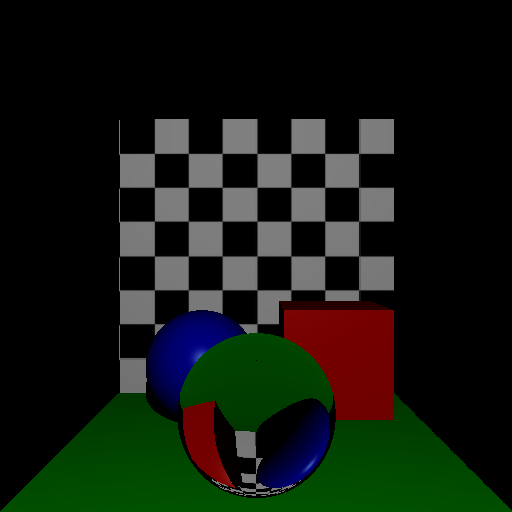
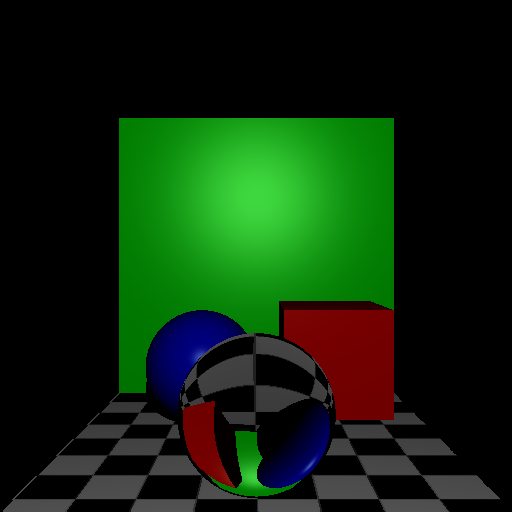
gg

diff --git a/js/main.js b/js/main.js
@@ -59,9 +59,12 @@ $(function () {
 					carouselWidth: 512,
 					carouselHeight: 512,
 					images: [
-						{src: "refraction.png", caption: ""}
+						{src: "refraction1.png", caption: ""},
+						{src: "refraction2.png", caption: ""},
+						{src: "refraction3.png", caption: ""},
+						{src: "refraction4.png", caption: ""}
 					],
-					footer: "Index of refraction of 1.5"
+					footer: "Index of refraction of 1.0, 1.1, 1.3, 1.5"
 				},
 				{
 					name: "Glossy reflection",
@@ -199,7 +202,7 @@ $(function () {
 					carouselHeight: 512,
 					images: [
 						{src: "fresnel.png", caption: ""},
-						{src: "refraction.png", caption: ""}
+						{src: "fresnel1.png", caption: ""}
 					],
 					footer: ""
 				}
